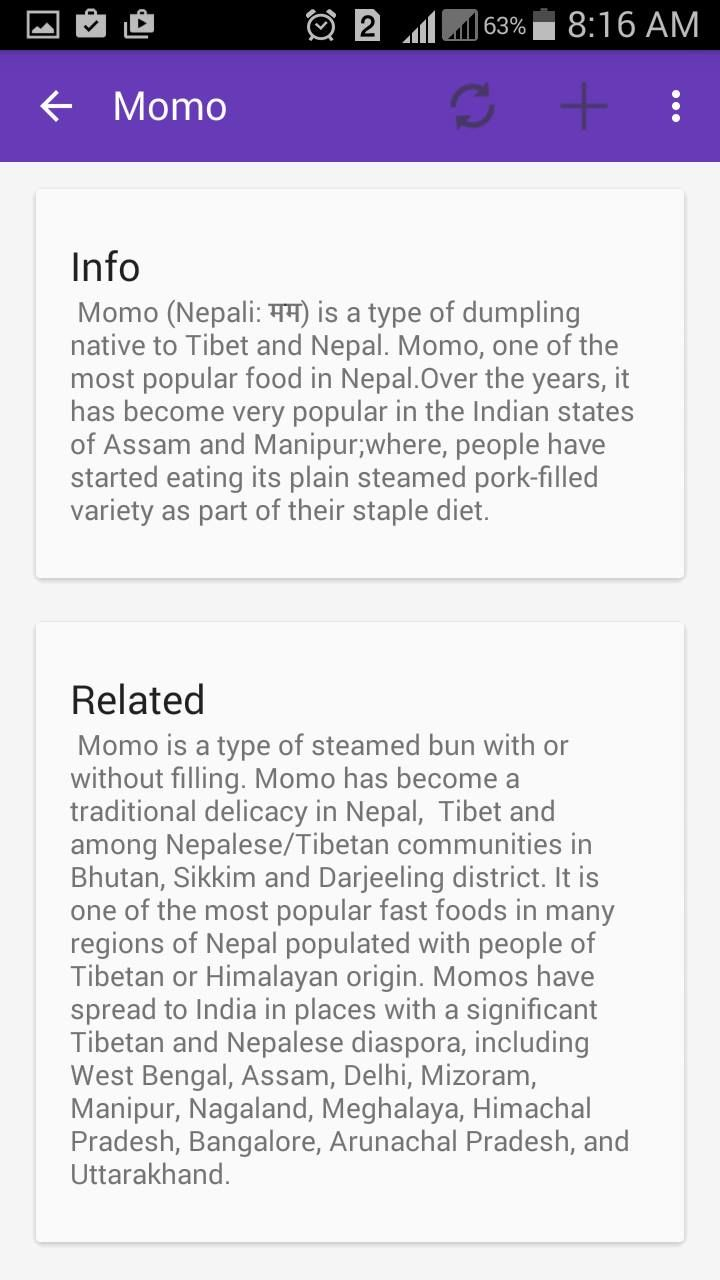
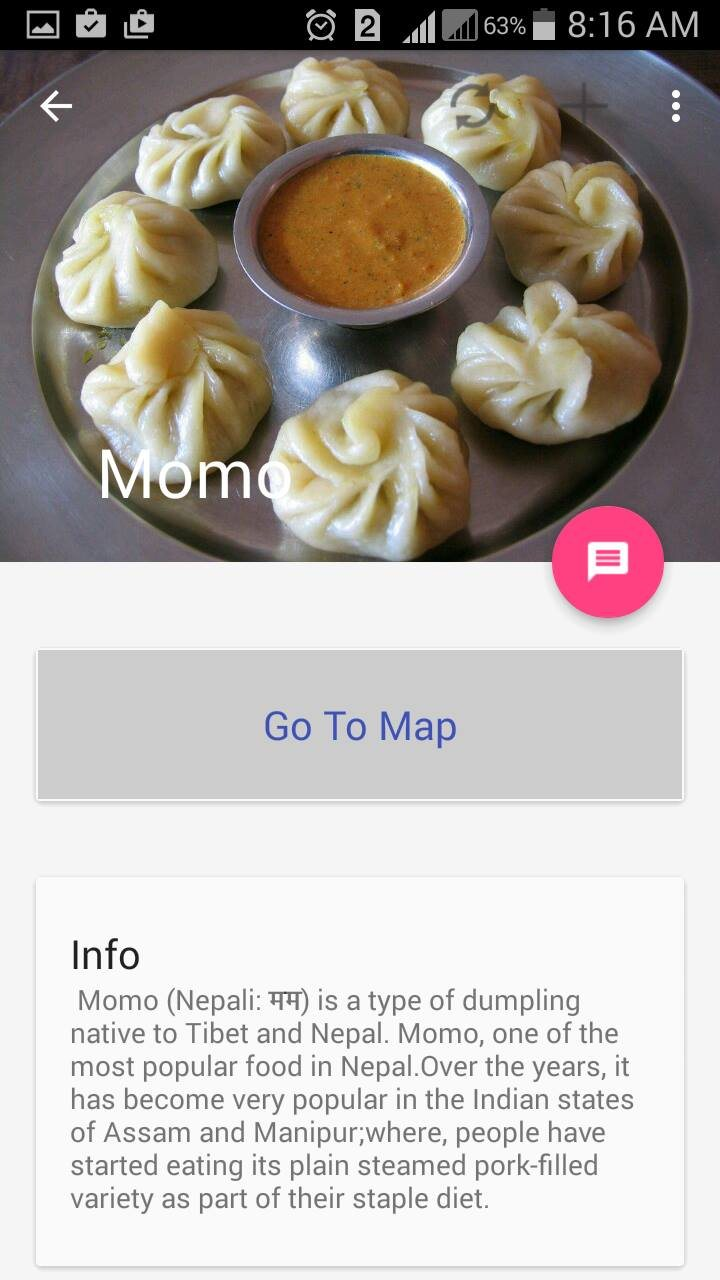
Show Food Tours Nepal carousel and project award highlights (#8)

diff --git a/_pages/undergraduate-projects.md b/_pages/undergraduate-projects.md
@@ -14,19 +14,29 @@ nav_order: 3
 .student-project:nth-of-type(4n) { --accent: #b66a25; }
 .student-project h2 { margin: .25rem 0 .55rem; font-size: 1.55rem; }
 .student-meta { color: var(--accent); font-size: .83rem; font-weight: 700; letter-spacing: .025em; text-transform: uppercase; }
+.student-award { display: inline-block; margin: .3rem 0; padding: .32rem .72rem; border-radius: 100px; background: #f4e7aa; color: #704c00; letter-spacing: 0; text-transform: none; }
 .student-project p { max-width: 740px; margin-bottom: .9rem; }
 .student-feature { display: grid; grid-template-columns: minmax(0, 1.5fr) minmax(240px, 1fr); gap: 1.3rem; align-items: start; }
 .student-feature > div:first-child { min-width: 0; }
 .student-photo, .student-certificate { margin: .8rem 0 0; }
 .student-photo img { width: 100%; border-radius: 12px; }
+.student-win { display: flex; align-items: center; gap: 1rem; margin-top: 1.2rem; padding: 1.1rem 1.25rem; border-radius: 14px; background: linear-gradient(135deg, #4f309c, #7850d5); color: white; }
+.student-win .win-icon { font-size: 2rem; line-height: 1; }
+.student-win strong { display: block; font-size: 1.1rem; }
+.student-win span:last-child { font-size: .85rem; }
 .student-photo figcaption, .student-certificate figcaption, .student-gallery figcaption { color: var(--global-text-color-light); font-size: .8rem; padding-top: .45rem; }
 .student-certificate { border: 1px solid var(--global-divider-color); border-radius: 12px; overflow: hidden; background: #f6f2ff; }
 .student-certificate a { display: block; }
 .student-certificate img { display: block; width: 100%; max-height: 235px; object-fit: contain; }
 .student-certificate figcaption { padding: .55rem .75rem; background: var(--global-card-bg-color); }
 .student-awards { display: grid; grid-template-columns: repeat(2, minmax(0,1fr)); gap: .7rem; }
-.student-gallery { display: grid; grid-template-columns: repeat(4, minmax(0,1fr)); gap: .8rem; margin: 1.5rem 0 0; }
-.student-gallery figure { margin: 0; }
+.student-gallery-heading { display: flex; align-items: center; justify-content: space-between; gap: 1rem; margin-top: 1.7rem; }
+.student-gallery-heading h3 { font-size: 1rem; margin: 0; }
+.student-gallery-controls { display: flex; gap: .45rem; }
+.student-gallery-controls button { width: 2.3rem; height: 2.3rem; border: 1px solid var(--global-divider-color); border-radius: 50%; background: var(--global-card-bg-color); color: var(--accent); font-size: 1.4rem; line-height: 1; cursor: pointer; }
+.student-gallery-controls button:hover { background: var(--accent); color: white; }
+.student-gallery { display: flex; gap: .85rem; margin: .8rem 0 0; overflow-x: auto; scroll-snap-type: x mandatory; scroll-behavior: smooth; scrollbar-width: thin; padding: .25rem .2rem 1rem; }
+.student-gallery figure { margin: 0; flex: 0 0 clamp(160px, 24%, 215px); scroll-snap-align: start; }
 .student-gallery img { display: block; width: 100%; aspect-ratio: 9 / 15; object-fit: cover; object-position: top; border: 1px solid var(--global-divider-color); border-radius: 12px; box-shadow: 0 8px 18px rgba(20,20,45,.12); }
 [data-zoomable] { cursor: zoom-in; transition: transform .25s ease, filter .25s ease; }
 [data-zoomable]:hover { transform: translateY(-3px); filter: brightness(.97); }
@@ -40,7 +50,8 @@ nav_order: 3
 .student-team .student-lead strong { color: var(--accent); font-size: .75rem; margin-left: .25rem; }
 .medium-zoom-overlay { z-index: 2000; }
 .medium-zoom-image--opened { z-index: 2001; }
-@media (max-width: 700px) { .student-feature { grid-template-columns: 1fr; } .student-gallery { grid-template-columns: repeat(2, minmax(0,1fr)); } }
+@media (max-width: 700px) { .student-feature { grid-template-columns: 1fr; } .student-gallery figure { flex-basis: min(58vw, 210px); } }
+@media (prefers-reduced-motion: reduce) { .student-gallery { scroll-behavior: auto; } [data-zoomable] { transition: none; } }
 </style>
 
 <p class="student-intro">Before my research career, I enjoyed building things with a purpose. These undergraduate projects in Nepal grew from ideas about food and culture, language preservation, playful learning, and conserving resources.</p>
@@ -48,37 +59,54 @@ nav_order: 3
 <section class="student-project student-project-featured">
   <div class="student-feature">
     <div>
-  <div class="student-meta">2016 · Android app · Second place, TechBihani 2.0</div>
+  <div class="student-meta">2016 · Android app<br><span class="student-award">★ Second place · TechBihani 2.0</span></div>
   <h2>Food Tours Nepal</h2>
-  <p>Built an app for exploring Nepal through its food, from individual dishes and regional cuisines to nearby places to eat. The prototype brought together food guides, community and recommendation views, and a map with filters for distance, price, and rating. Presented at Yomari Code Camp and earned second place in the TechBihani 2.0 software competition.</p>
+  <p>Built an app for exploring Nepal through its food, from individual dishes and regional cuisines to nearby places to eat. The prototype brought together food guides, community and recommendation views, and a map with filters for distance, price, and rating. It earned <strong>second place in the TechBihani 2.0 software competition</strong>.</p>
   <div class="student-team"><h3>Team</h3><ul><li class="student-lead">Deep Pandey <strong>Lead</strong></li><li>Kushal Pokherel</li><li>Drishya Chhetri</li><li>Ayush Kafle</li><li>Aashish Neupane</li><li>Pranjal Dhakal</li><li>Bidur Khanal</li></ul></div>
   <div class="student-awards">
     <figure class="student-certificate"><img src="{{ '/assets/img/undergrad/food-tour-acem-2016.jpg' | relative_url }}" alt="TechBihani 2.0 certificate for second place in the software competition" loading="lazy" data-zoomable tabindex="0"><figcaption>Second place · TechBihani 2.0</figcaption></figure>
     <figure class="student-certificate"><img src="{{ '/assets/img/undergrad/food-tour-yomari-2016.jpg' | relative_url }}" alt="Yomari Code Camp 2016 participation certificate" loading="lazy" data-zoomable tabindex="0"><figcaption>Yomari Code Camp · 2016</figcaption></figure>
   </div>
     </div>
-    <figure class="student-photo"><img src="{{ '/assets/img/undergrad/food-tour-team.jpg' | relative_url }}" alt="Deep Shankar Pandey and teammates wearing medals in a 2016 group photo" loading="lazy" data-zoomable tabindex="0"><figcaption>With teammates in 2016</figcaption></figure>
+    <div><figure class="student-photo"><img src="{{ '/assets/img/undergrad/food-tour-team.jpg' | relative_url }}" alt="Deep Shankar Pandey and teammates wearing medals in a 2016 group photo" loading="lazy" data-zoomable tabindex="0"><figcaption>With teammates in 2016</figcaption></figure>
+      <div class="student-win"><span class="win-icon" aria-hidden="true">★</span><span><strong>Second place</strong>TechBihani 2.0 software competition · 2016</span></div>
+    </div>
   </div>
-  <div class="student-gallery">
+  <div class="student-gallery-heading"><h3>Inside the app</h3><div class="student-gallery-controls"><button type="button" data-gallery-step="-1" aria-controls="food-tour-gallery" aria-label="Previous app screenshot">‹</button><button type="button" data-gallery-step="1" aria-controls="food-tour-gallery" aria-label="Next app screenshot">›</button></div></div>
+  <div class="student-gallery" id="food-tour-gallery" role="group" aria-label="Food Tours Nepal app screenshots">
+    <figure><img src="{{ '/assets/img/undergrad/food-tour-logo.jpg' | relative_url }}" alt="Food Tours Nepal app splash screen with its logo" loading="lazy" data-zoomable tabindex="0"><figcaption>Food Tours Nepal</figcaption></figure>
     <figure><img src="{{ '/assets/img/undergrad/food-tour-foods.jpg' | relative_url }}" alt="Food Tours Nepal app screen showing a grid of Nepali foods" loading="lazy" data-zoomable tabindex="0"><figcaption>Explore dishes</figcaption></figure>
     <figure><img src="{{ '/assets/img/undergrad/food-tour-cuisines.jpg' | relative_url }}" alt="Food Tours Nepal app screen showing regional cuisines" loading="lazy" data-zoomable tabindex="0"><figcaption>Discover cuisines</figcaption></figure>
-    <figure><img src="{{ '/assets/img/undergrad/food-tour-dish.jpg' | relative_url }}" alt="Food Tours Nepal app screen with information about momo" loading="lazy" data-zoomable tabindex="0"><figcaption>Learn about food</figcaption></figure>
+    <figure><img src="{{ '/assets/img/undergrad/food-tour-dish.jpg' | relative_url }}" alt="Food Tours Nepal Momo screen with a photo, map button, and dish information" loading="lazy" data-zoomable tabindex="0"><figcaption>Explore Momo</figcaption></figure>
     <figure><img src="{{ '/assets/img/undergrad/food-tour-map.jpg' | relative_url }}" alt="Food Tours Nepal map screen with nearby food places" loading="lazy" data-zoomable tabindex="0"><figcaption>Find nearby places</figcaption></figure>
   </div>
 </section>
 
+<script>
+document.addEventListener('DOMContentLoaded', function () {
+  var gallery = document.getElementById('food-tour-gallery');
+  document.querySelectorAll('[data-gallery-step]').forEach(function (button) {
+    button.addEventListener('click', function () {
+      var card = gallery.querySelector('figure');
+      var gap = parseFloat(getComputedStyle(gallery).gap) || 0;
+      gallery.scrollBy({ left: Number(button.dataset.galleryStep) * (card.getBoundingClientRect().width + gap), behavior: 'smooth' });
+    });
+  });
+});
+</script>
+
 <section class="student-project">
   <div class="student-feature"><div>
-  <div class="student-meta">2015 · Android app · Best Idea, Yomari Code Camp</div>
+  <div class="student-meta">2015 · Android app<br><span class="student-award">★ Best Idea · Yomari Code Camp</span></div>
   <h2>Lingo App</h2>
-  <p>Led development of an app designed to help people learn endangered languages in Nepal and support their preservation. The idea began at a LOCUS 2015 hackathon and was refined for Yomari Code Camp, where it won Best Idea.</p>
-  <div class="student-team"><h3>Team</h3><ul><li class="student-lead">Deep Pandey <strong>Lead</strong></li><li>Kushal Pokherel</li><li>Drishya Chhetri</li></ul></div>
+  <p>Served as the main developer of an app designed to help people learn endangered languages in Nepal and support their preservation. The idea began at a LOCUS 2015 hackathon and was refined for Yomari Code Camp, where it won Best Idea.</p>
+  <div class="student-team"><h3>Team</h3><ul><li>Deep Pandey <strong>Main developer</strong></li><li class="student-lead">Kushal Pokherel <strong>Lead</strong></li><li>Drishya Chhetri</li></ul></div>
   </div><figure class="student-certificate"><img src="{{ '/assets/img/undergrad/lingo-locus-2015.jpg' | relative_url }}" alt="LOCUS 2015 hackathon participation certificate" loading="lazy" data-zoomable tabindex="0"><figcaption>LOCUS 2015 · Hackathon</figcaption></figure></div>
 </section>
 
 <section class="student-project">
   <div class="student-feature"><div>
-  <div class="student-meta">2014 · C# and Windows 8.1 · Third place</div>
+  <div class="student-meta">2014 · C# and Windows 8.1<br><span class="student-award">★ Third place · Windows 8.1 Dev Camp</span></div>
   <h2>Save the Tree</h2>
   <p>Led the team and programmed a game that introduced children to nature conservation through play. Won third place at the Windows 8.1 Dev Camp at Pulchowk Campus.</p>
   <div class="student-team"><h3>Team</h3><ul><li class="student-lead">Deep Pandey <strong>Lead</strong></li><li>Krishna Chapagain</li><li>Giru Pandey</li></ul></div>
